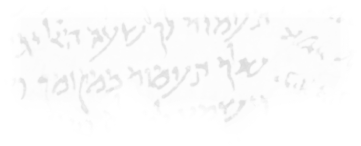
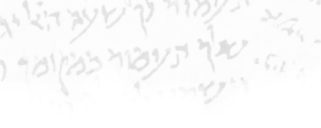
Implement RTL header on mobile (#696)

diff --git a/sitemedia/scss/components/_navigation.scss b/sitemedia/scss/components/_navigation.scss
@@ -400,6 +400,15 @@ header {
 
 // tweaks for RTL header for hebrew, arabic
 html[dir="rtl"] #site-nav {
+    ul#corner-links li.menu-button {
+        margin-right: 11rem;
+    }
+    ul.sub-menu li.menu-button a#back-to-main-menu::before {
+        content: "\f0c4"; // phosphor caret-right icon
+    }
+    li.menu-item.has-submenu a.open-sub-menu::after {
+        content: "\f0c3"; // phosphor caret-left icon
+    }
     @include breakpoints.for-tablet-landscape-up {
         ul#menu {
             margin: 0 spacing.$spacing-xl 0 spacing.$spacing-4xl;
@@ -415,10 +424,14 @@ html[dir="rtl"] #site-nav {
     }
 }
 
+/*
+** header image handling
+*/
+
 // Header backgrounds for light and dark mode, mobile
 @mixin header-background-mobile-dark {
     background: url("/static/img/ui/mobile/dark/ltr/header-base.svg"),
-        url("/static/img/ui/mobile/light/ltr/header-image.png");
+        url("/static/img/ui/mobile/dark/ltr/header-image.png");
     background-repeat: no-repeat, no-repeat;
     a.home-link {
         background: url("/static/img/logos/mobile/dark/ltr/logotype.png")
@@ -566,7 +579,9 @@ body.dark-mode #site-nav {
     @include dark-nav;
 }
 
-// tweaks for themed elements in RTL languages
+/*
+** tweaks for themed elements in RTL languages
+*/
 
 // RTL header backgrounds for light and dark mode, desktop
 @mixin header-background-desktop-dark-rtl {
@@ -633,6 +648,32 @@ body.dark-mode #site-nav {
     }
     ul.sub-menu a::after {
         transform: scaleX(-1) translateX(10px) !important;
+    }
+}
+
+// Header backgrounds for light and dark mode, mobile
+@mixin header-background-mobile-dark {
+    background: url("/static/img/ui/mobile/dark/rtl/header-base.svg") top right,
+        url("/static/img/ui/mobile/dark/rtl/header-image.png") top right;
+    background-repeat: no-repeat, no-repeat;
+    a.home-link {
+        background: url("/static/img/logos/mobile/dark/rtl/logotype.png")
+            no-repeat;
+        background-size: 151px 111px;
+        width: 151px;
+        height: 111px;
+    }
+}
+@mixin header-background-mobile-light {
+    background: url("/static/img/ui/mobile/light/rtl/header-base.svg") top right,
+        url("/static/img/ui/mobile/light/rtl/header-image.png") top right;
+    background-repeat: no-repeat, no-repeat;
+    a.home-link {
+        background: url("/static/img/logos/mobile/light/rtl/logotype.png")
+            no-repeat;
+        background-size: 151px 112px;
+        width: 151px;
+        height: 112px;
     }
 }
 
